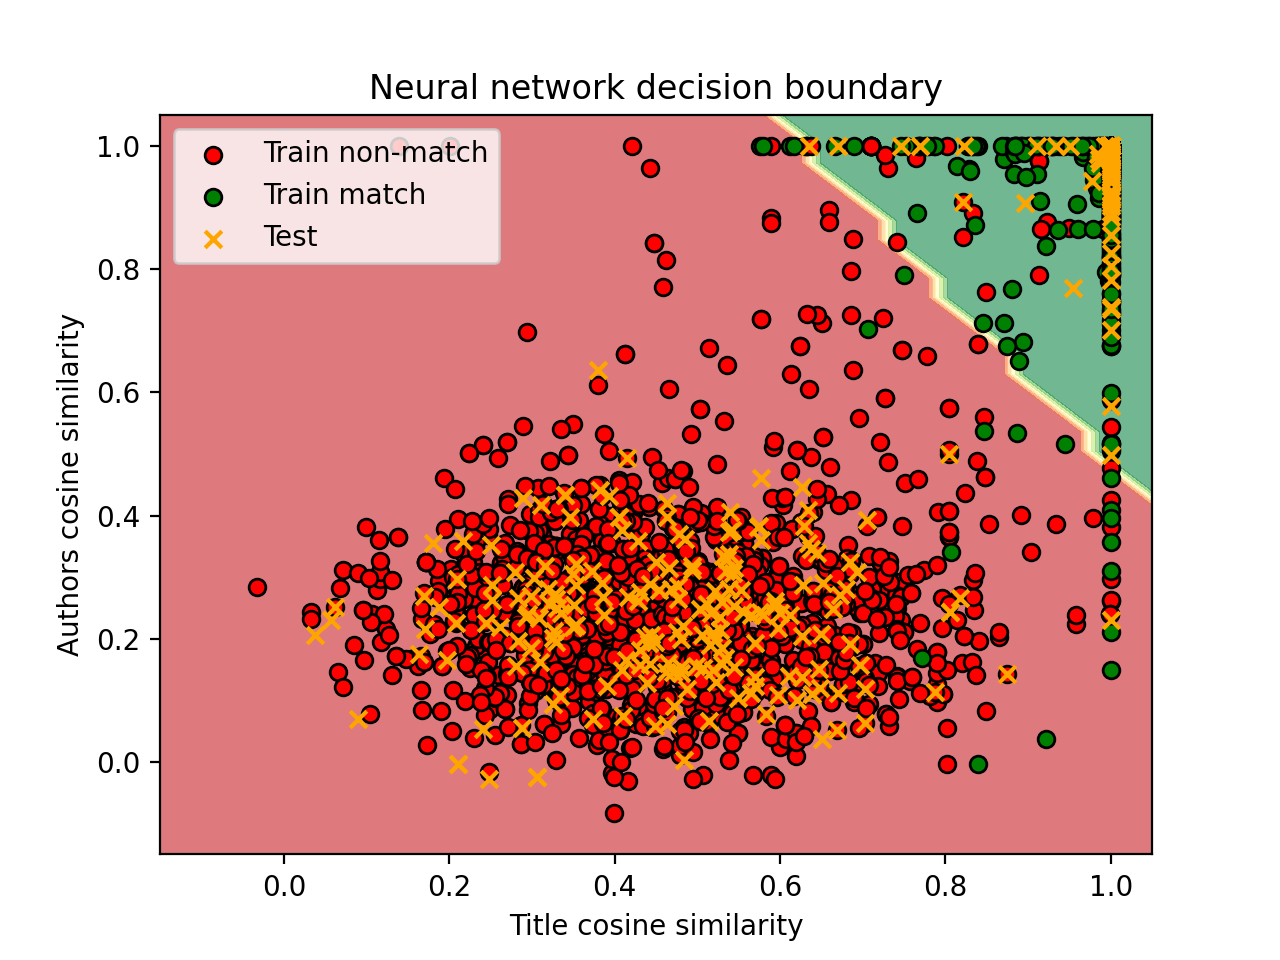
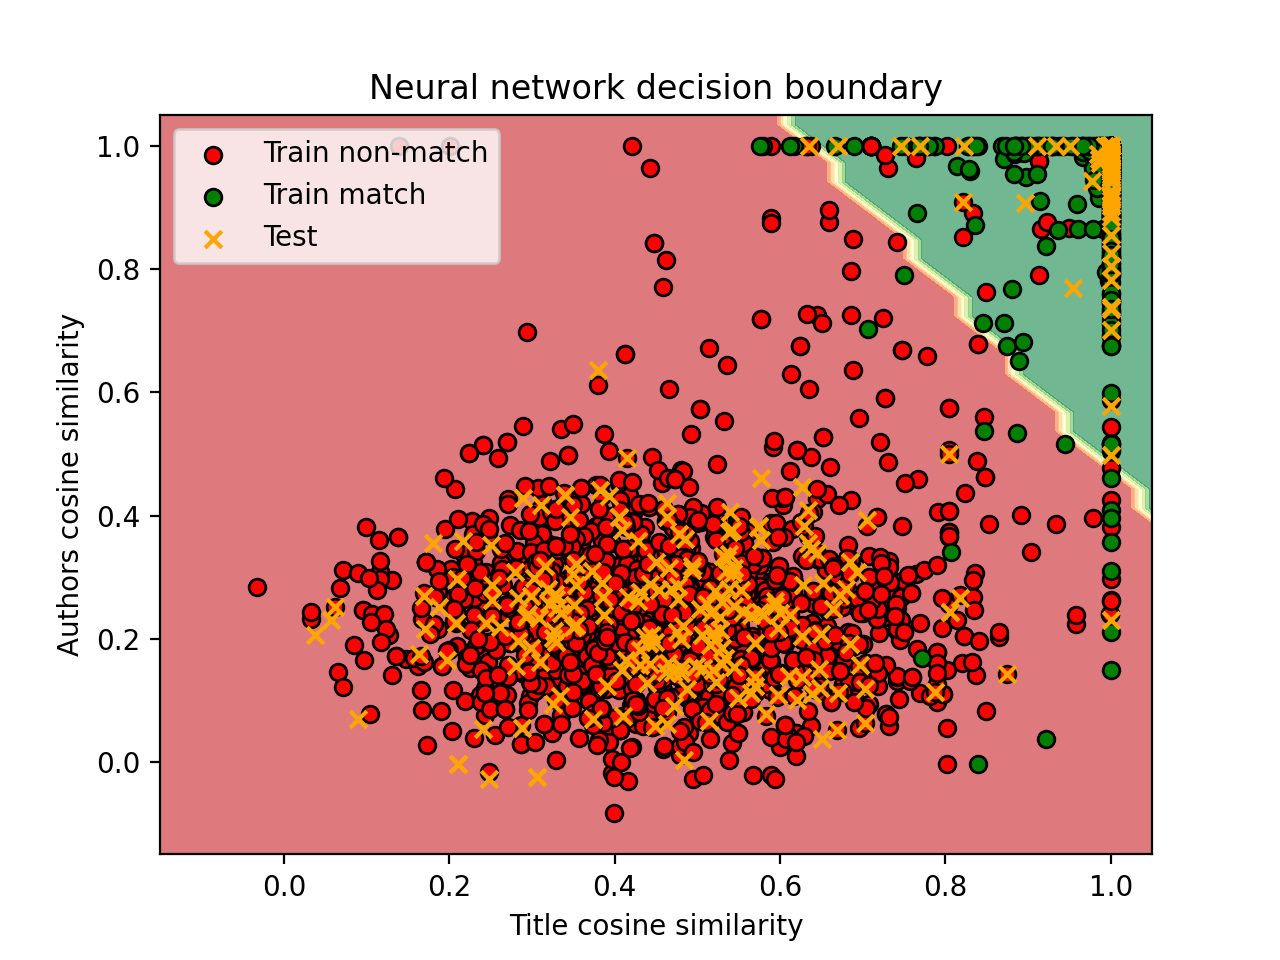
main-plots, better hyper parameters, README, results

diff --git a/task_02/ml-entity-matching.py b/task_02/ml-entity-matching.py
@@ -163,6 +163,34 @@ def create_X_and_ids(A, B, verbose=False):
     return candidates.loc[:, ["title_sim", "authors_sim"]], candidates.loc[:, ["idDBLP", "idACM"]]
 
 
+def select_model(args):
+    if args.model == "RF":
+        name = "Random forest"
+        if args.hyper_parameters == "1":
+            clf = RandomForestClassifier(n_estimators=100, max_depth=3, random_state=RANDOM_SEED)
+        elif args.hyper_parameters == "2":
+            clf = RandomForestClassifier(n_estimators=200, max_depth=2, random_state=RANDOM_SEED)
+        elif args.hyper_parameters == "3":
+            clf = RandomForestClassifier(n_estimators=300, max_depth=1, random_state=RANDOM_SEED)
+    elif args.model == "SVM":
+        name = "Support vector machine"
+        if args.hyper_parameters == "1":
+            clf = SVC(kernel="rbf", random_state=RANDOM_SEED)
+        elif args.hyper_parameters == "2":
+            clf = SVC(kernel="linear", random_state=RANDOM_SEED)
+        elif args.hyper_parameters == "3":
+            clf = SVC(kernel="poly", random_state=RANDOM_SEED)
+    else:
+        name = "Neural network" 
+        if args.hyper_parameters == "1":
+            clf = MLPClassifier(hidden_layer_sizes=(4,), max_iter=400, random_state=RANDOM_SEED)
+        elif args.hyper_parameters == "2":
+            clf = MLPClassifier(hidden_layer_sizes=(8,), max_iter=400, random_state=RANDOM_SEED)
+        elif args.hyper_parameters == "3":
+            clf = MLPClassifier(hidden_layer_sizes=(12,), max_iter=400, random_state=RANDOM_SEED)
+
+    return name, clf
+
 if __name__ == "__main__":
     parser = argparse.ArgumentParser()
     parser.add_argument("-m", "--model", default="NN", choices=["NN", "RF", "SVM"],
@@ -213,14 +241,8 @@ if __name__ == "__main__":
             
             # create valid feature matrix and ids
             X_valid, df_pred = create_X_and_ids(va, vb, verbose=args.verbose)
-            
-            if args.model == "RF":
-                clf = RandomForestClassifier(n_estimators=200, max_depth=2, random_state=RANDOM_SEED)
-            elif args.model == "SVM":
-                clf = SVC(kernel="rbf")
-            else:
-                clf = MLPClassifier(hidden_layer_sizes=(8,), max_iter=400, random_state=RANDOM_SEED)
 
+            name, clf = select_model(args)
             clf.fit(X_train, y_train)
 
             pred = clf.predict(X_valid)
@@ -235,7 +257,7 @@ if __name__ == "__main__":
             if args.verbose:
                 print(f"### Matches in train: {len(df_true.loc[(df_true.idACM.isin(ta.id)) & (df_true.idDBLP.isin(tb.id))])}")
                 print(f"### Matches in valid: {len(true_matches)}")
-            print(f"Validation accuracy metrics for fold {fold + 1}:", f"precision: {precision:.4f}", 
+            print(f"Validation accuracy metrics for {name} {args.hyper_parameters} for fold {fold + 1}:", f"precision: {precision:.4f}", 
                   f"recall:    {recall:.4f}", f"f1 score:  {f1:.4f}", sep='\n')
         
         if args.verbose:
@@ -247,31 +269,7 @@ if __name__ == "__main__":
     # train model with the whole training set
     X, y = create_X_and_y(dfa_train, dfb_train, df_true, verbose=args.verbose)
 
-    if args.model == "RF":
-        name = "Random forest"
-        if args.hyper_parameters == "1":
-            clf = RandomForestClassifier(n_estimators=100, max_depth=3, random_state=RANDOM_SEED)
-        elif args.hyper_parameters == "2":
-            clf = RandomForestClassifier(n_estimators=200, max_depth=2, random_state=RANDOM_SEED)
-        elif args.hyper_parameters == "3":
-            clf = RandomForestClassifier(n_estimators=300, max_depth=1, random_state=RANDOM_SEED)
-    elif args.model == "SVM":
-        name = "Support vector machine"
-        if args.hyper_parameters == "1":
-            clf = SVC(kernel="rbf")
-        elif args.hyper_parameters == "2":
-            clf = SVC(kernel="linear")
-        elif args.hyper_parameters == "3":
-            clf = SVC(kernel="poly")
-    else:
-        name = "Neural network" 
-        if args.hyper_parameters == "1":
-            clf = MLPClassifier(hidden_layer_sizes=(4,), max_iter=400, random_state=RANDOM_SEED)
-        elif args.hyper_parameters == "2":
-            clf = MLPClassifier(hidden_layer_sizes=(8,), max_iter=400, random_state=RANDOM_SEED)
-        elif args.hyper_parameters == "3":
-            clf = MLPClassifier(hidden_layer_sizes=(12,), max_iter=400, random_state=RANDOM_SEED)
-
+    name, clf = select_model(args)
     clf.fit(X, y)
     
     if args.verbose:

diff --git a/task_01/entity-matching.py b/task_01/entity-matching.py
@@ -106,9 +106,9 @@ class Classifier():
 if __name__ == "__main__":
     parser = argparse.ArgumentParser()
     parser.add_argument("-t", "--technique", default="levenshtein", choices=["levenshtein", "accuracy", "exact"],
-                        help="Title matching techniques: Levenshtein ration (levenshtein), Our accuracy measure (accuracy), Exact match (exact)")
+                        help="Title matching techniques: Levenshtein ration (levenshtein), Our accuracy measure (accuracy), Exact match (exact).")
     parser.add_argument("-s", "--save_plot", action="store_true",
-                        help="Save the plot of the decision boundary based on chosen technique")
+                        help="Save the plot of the decision boundary with scattered matches and non-macthes.")
     args = parser.parse_args()
 
     name = "Levenshtein ration"

diff --git a/parse_cross_validation.py b/parse_cross_validation.py
@@ -7,9 +7,10 @@ data = file.read()
 names = re.findall(r"Test accuracy metrics for (.*?):", data)
 
 data = data.split("fold 1:")
-f1_averages = []
+f1_sums = []
 for model_run in data[1:]:
     values = re.findall(r"f1 score:  (.{6})", model_run)
-    f1_averages.append(float(values[0]) + float(values[1]) + float(values[2]))
+    f1_sums.append(float(values[0]) + float(values[1]) + float(values[2]))
 
-print(names[np.array(f1_averages).argmax()])
+print(f1_sums)
+print(names[np.array(f1_sums).argmax()])

diff --git a/task_01/README.md b/task_01/README.md
@@ -16,30 +16,38 @@ To evaluate, if two records match, we used only the columns `title` and `authors
 * **Levenshtein ration**: This technique is based on the levenshtein distance. It is calculated as a fraction of the difference between the lenght of the longer string and the levenshtein distance between the two input strings and the lenght of the longer string, or simplyfied as $1 - levenshtein\_distance / longer\_string\_length$.
 
 ## Results
-We evaluated the results of our pipeline with three common accuracy metrics in information retrieval, i.e. **precision**, **recall** and **f1 score**, which nicely summerize the accuray of the pipeline.
+We evaluated the results of our pipeline with three common accuracy metrics in information retrieval, i.e. **precision**, **recall** and **f1 score**.
 
 ### Title matching using levenshtein ratio
-The levenshtein ratio title matching has the overall best accuracy. It yields the best compromise between precision and recall.
+The levenshtein ratio title matching has the overall best accuracy. It yields the best compromise between precision and recall. The results are:
 * precision: **97.23 %**
 * recall:    **97.71 %**
 * f1 score:  **97.47 %**
 
+#### Matches and non-matches scattered on the plot of the decision boundary
+![levenshtein](../plots/levenshtein_decision_boundary.png)
+
 ### Title matching using our title match accuracy
-Our title match accuracy measure matching has still very good overall accuracy. It slightly favors recall over accuracy.
+Our title match accuracy measure matching has still very good overall accuracy. It slightly favors recall over accuracy. The results are:
 * precision: **94.21 %**
 * recall:    **98.79 %**
 * f1 score:  **96.44 %**
 
+#### Matches and non-matches scattered on the plot of the decision boundary
+![accuracy](../plots/accuracy_decision_boundary.png)
+
 ### Title matching using exact title match
-Our title match accuracy measure matching has still very good overall accuracy. It slightly favors recall over accuracy.
+Our title match accuracy measure matching has still very good overall accuracy. It slightly favors recall over accuracy. The results are:
 * precision: **97.97 %**
 * recall:    **91.05 %**
 * f1 score:  **94.38 %**
 
-## Result reproduction
-Install the required libraries with `pip install -r ./task_01/requirements.txt`. Run the script from the root directory of the project after downloading and extracting the data as described in the main README file.
+#### Matches and non-matches scattered on the plot of the decision boundary
+![exact](../plots/exact_decision_boundary.png)
 
-The commands to run the script and reproduce the results listed above are:
-* `python ./task_01/entity-matching.py -st levenshtein`  - for the title matching using levenshtein ratio 
-* `python ./task_01/entity-matching.py -st accuracy`     - for the title matching using our title match accuracy
-* `python ./task_01/entity-matching.py -st exact`        - for the title matching using exact title match
+
+## Result reproduction
+Run the script from the root directory of the project after installing the requirements, downloading and extracting the data as described in the main README file. Use the commands listed below to reproduce the results:
+* `python ./task_01/entity-matching.py -t levenshtein `  - for the title matching using levenshtein ratio 
+* `python ./task_01/entity-matching.py -t accuracy    `  - for the title matching using our title match accuracy
+* `python ./task_01/entity-matching.py -t exact       `  - for the title matching using exact title match

diff --git a/task_02/README.md b/task_02/README.md
@@ -4,22 +4,27 @@ This file is a README for the python script `ml-entity-matching.py`, where we im
 ## Implementation details
 In this section we describe, how we matched the records.
 
+### Hyper-parameters
+We chose three different ML models, which are a neural network, a random forest and a support vector machine, and 3 different parameters for each of the models as the hyper parameters of our ML pipeline. 
+
 ### Records matching
 To evaluate, if two records match, we used only the columns `title` and `authors`, as adding the `venue` column to our matching pipeline decreased its accuracy. Our approach to the matching of records is the following:
-TODO
+* TODO
 
 ## Results
-We evaluated the results of our pipeline with three common accuracy metrics in information retrieval, i.e. **precision**, **recall** and **f1 score**, which nicely summerize the accuray of the pipeline.
+We evaluated the results of our pipeline with three common accuracy metrics in information retrieval, i.e. **precision**, **recall** and **f1 score**.
 
-### Best performing ML model based on the validation set results
+### Best performing model based on the cross validation results
+We evaluated the model performace as an average f1 score over the validations folds. The model with the best cross-validation performance is the support vector machine model with radial basis function kernel initialization. The results of this model on the test data set are:
 * precision: **98.66 %**
 * recall:    **98.66 %**
 * f1 score:  **98.66 %**
 
-## Result reproduction
-Install the required libraries with `pip install -r ./task_02/requirements.txt`. Run the script from the root directory of the project after downloading and extracting the data as described in the main README file.
+Futhermore, the results of all the models on both the validation data sets and the test data set can be seen in the file `results.txt`.
 
-The commands to run the script and reproduce the results listed above are:
-* `python ./task_02/ml-entity-matching.py --save_plot -m NN`    - for matching using a neural network
-* `python ./task_02/ml-entity-matching.py --save_plot -m RF`    - for matching using a random forest
-* `python ./task_02/ml-entity-matching.py --save_plot -m SVM`   - for matching using a support vector machine
+#### Matches, non-matches and test samples scattered on the plot of the models decision boundary
+![SVM1](../plots/SVM_1_decision_boundary.png)
+
+## Result reproduction
+Run the script from the root directory of the project after installing the requirements, downloading and extracting the data as described in the main README file. Use the command to reproduce the results:
+* `python ./task_02/ml-entity-matching.py`   - to obtain the results of the best performing model regarding the cross validation on the test set

diff --git a/README.md b/README.md
@@ -8,6 +8,36 @@ Massimiliano Viola, massimiliano.viola@student.tugraz.at, 12213195
 ## Used data for entity matching
 The used data can be downloaded using this link https://dbs.uni-leipzig.de/file/DBLP-ACM.zip. After downloading it, extract the content to the root directory of the project.
 
+## Required libraries
+Install the required libraries with `pip install -r ./requirements.txt` for both scripts.
+
+## Scripts
+We separated the *Task 01* and *Task 02* of the excercise into two scripts. The usage of the respective scripts is the following:
+```
+python ./task_01/entity-matching.py [-h] [-t {levenshtein,accuracy,exact}] [-s]
+
+options:
+  -h, --help            show this help message and exit
+  -t {levenshtein,accuracy,exact}, --technique {levenshtein,accuracy,exact}
+                        Title matching techniques: Levenshtein ration (levenshtein), Our accuracy measure (accuracy), Exact match (exact).
+  -s, --save_plot       Save the plot of the decision boundary with scattered matches and non-macthes.
+
+```
+```
+python ./task_02/ml-entity-matching.py [-h] [-m {NN,RF,SVM}] [-p {1,2,3}] [-c] [-v] [-s]
+
+options:
+  -h, --help            show this help message and exit
+  -m {NN,RF,SVM}, --model {NN,RF,SVM}
+                        Model to predict test set: neural network (NN), random forest (RF), support vector machine (SVM).
+  -p {1,2,3}, --hyper_parameters {1,2,3}
+                        Hyper parameters of the chosen model: 1st set of parameters (1), 2nd set of parameters (2), 3rd set of parameters (3).
+  -c, --cross_validation
+                        Run cross-validation on the training dataframes.
+  -v, --verbose         Increase output verbosity, display progress bars and results.
+  -s, --save_plot       Save the plot of the decision boundary of the trained model predicting the test set.
+```
+
 ## Implementation details shared between non ML and ML approaches
 In this section we describe, how we cleaned, pre-processed and blocked the records. For specific implementation details for each approach see the README files in directories `task_01/` and `task_02/` respectively.
 
